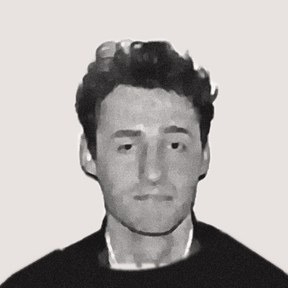
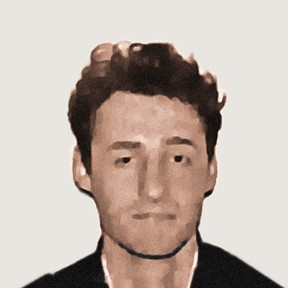
Warmer page colour, muted red, colour portraits

diff --git a/index.html b/index.html
@@ -12,16 +12,16 @@
   /* Layout: open page, no frame. A sticky top bar, then sections laid out as a left rail (the section title)
      beside a content column, separated by hairlines. One type family and two weights throughout; section labels echo the logo's spaced capitals. */
   color-scheme: light;
-  /* Palette: white page, black text, one red. */
-  --bg: #ffffff;
-  --ink: #111111;
-  --ink-2: rgba(17, 17, 17, .7);
-  --line: rgba(17, 17, 17, .14);
-  --grid: rgba(17, 17, 17, .1);
-  --axis: rgba(17, 17, 17, .5);
-  --hover: rgba(17, 17, 17, .05);
-  --accent: #e30613;
-  --tint: rgba(227, 6, 19, .16);
+  /* Palette: warm paper page, soft black text, one muted red. */
+  --bg: #faf7f2;
+  --ink: #191919;
+  --ink-2: rgba(25, 25, 25, .7);
+  --line: rgba(25, 25, 25, .12);
+  --grid: rgba(25, 25, 25, .09);
+  --axis: rgba(25, 25, 25, .45);
+  --hover: rgba(25, 25, 25, .05);
+  --accent: #b0303a;
+  --tint: rgba(176, 48, 58, .16);
   /* Helvetica everywhere: the system copy on Apple devices, Arial (its near twin) on Windows. Body, interface and metadata all follow --font-head. */
   --font-head: "Helvetica Neue", Helvetica, Arial, "Liberation Sans", sans-serif;
   --font-body: var(--font-head);
@@ -147,7 +147,7 @@ a.inline:hover { color: var(--accent); text-decoration-color: var(--accent); }
 .team { display: grid; grid-template-columns: repeat(3, minmax(0, 1fr)); gap: 28px 32px; margin-top: 40px; }
 .avatar {
   width: 72px; aspect-ratio: 1; margin-bottom: 14px; border-radius: 50%; overflow: hidden;
-  display: grid; place-items: center; background: none; border: 1px solid var(--axis); color: var(--ink);
+  display: grid; place-items: center; background: none; border: 1px solid var(--line); color: var(--ink);
   font: 500 18px/1 var(--font-ui); letter-spacing: .01em;
 }
 .avatar img { width: 100%; height: 100%; object-fit: cover; }
@@ -494,7 +494,7 @@ a.mono[href]:hover { color: var(--accent); border-bottom-color: var(--accent); }
     var n = parseInt(h, 16); return [n >> 16 & 255, n >> 8 & 255, n & 255];
   }
   function artColours() {
-    var ink = tok('--ink', '#111111'), accent = tok('--accent', '#e30613'), bg = tok('--bg', '#ffffff');
+    var ink = tok('--ink', '#191919'), accent = tok('--accent', '#b0303a'), bg = tok('--bg', '#faf7f2');
     W.colours = { ink: ink, accent: accent, bg: bg, inkRgb: hexRgb(ink), accentRgb: hexRgb(accent) };
   }
   function blend(q) {
